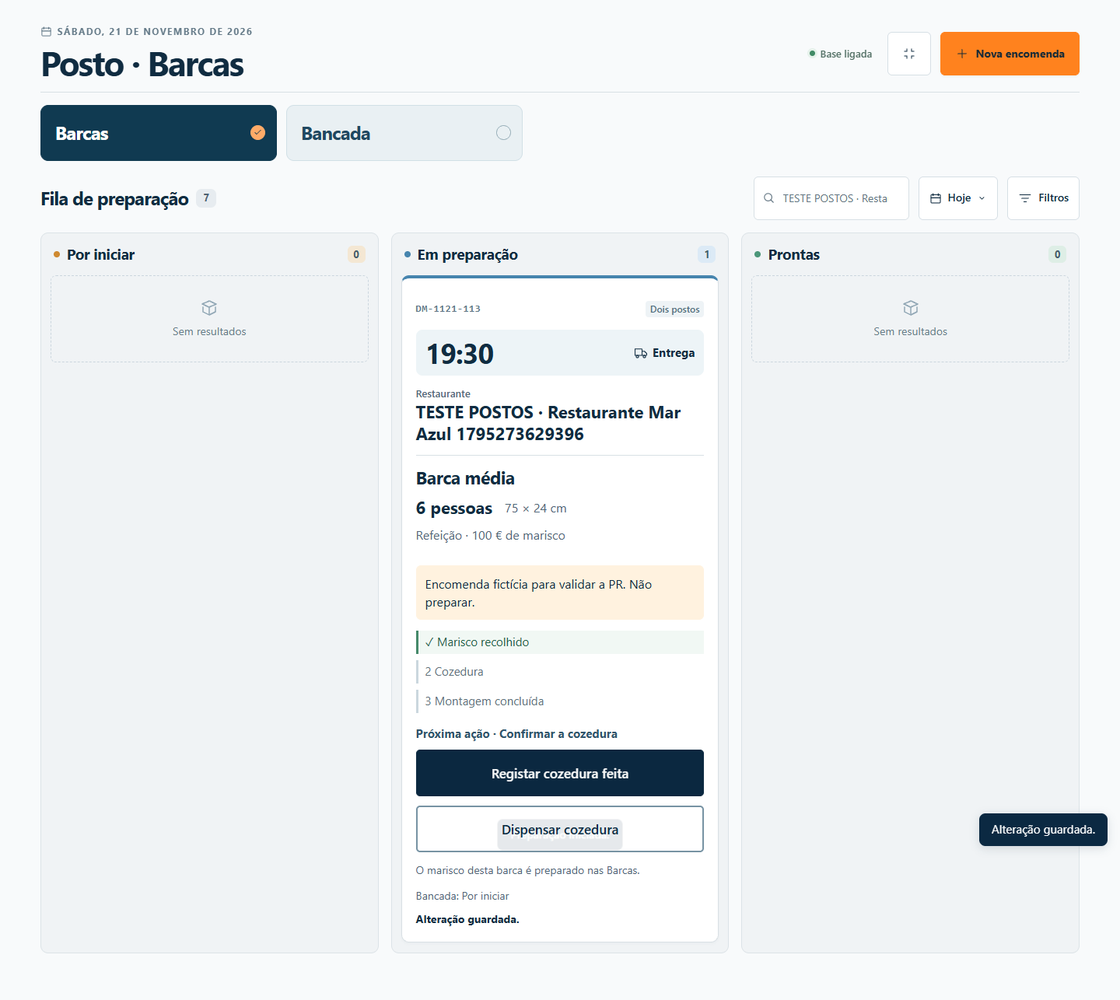
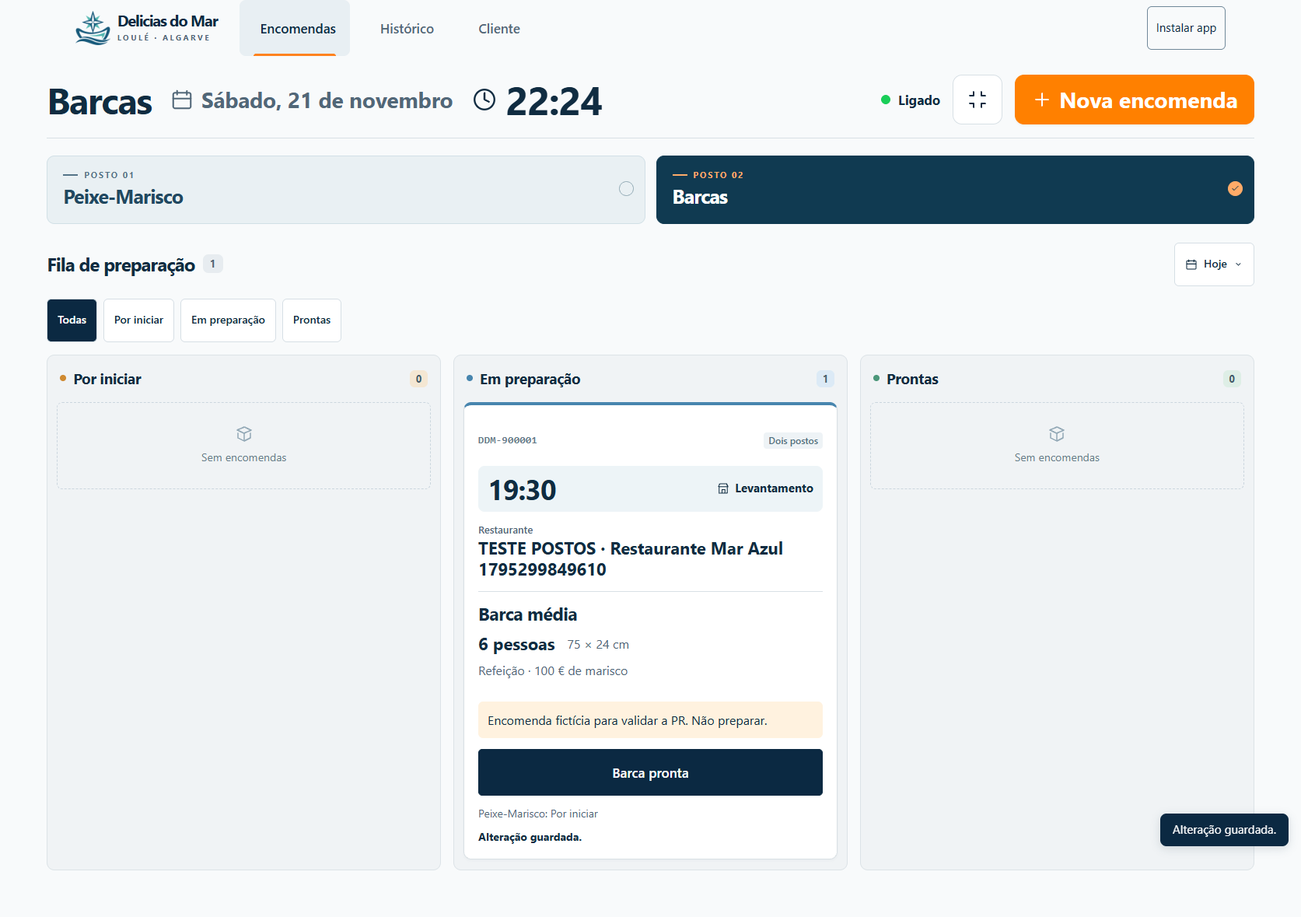
Simplifica a preparação nos dois postos e os filtros das filas

diff --git a/src/app.js b/src/app.js
@@ -57,8 +57,8 @@ const esc=v=>String(v??"").replace(/[&<>"']/g,c=>({"&":"&amp;","<":"&lt;",">":"&
 const cls=["wait","work","ready"];
 const categoryIcons=["boat","fish","waves","pot","snow"];
 const dayNow=()=>lisbonDay();
-let page="preparacao",station="bancada",day=dayNow(),orders=[],loaded=false,synced=false,loading=false,serial=0;
-let syncError=false;let query="",filter="all",listState="all",menu="",focusMode=false,detailId=null,busy=false,dialogMode="",draft=null,entry=null,editIndex=-1;
+let page="encomendas",station="bancada",day=dayNow(),orders=[],loaded=false,synced=false,loading=false,serial=0;
+let syncError=false;let filter="all",listState="all",focusMode=false,detailId=null,busy=false,dialogMode="",draft=null,entry=null,editIndex=-1;
 let savingId=null,saveMessage="";
 try{focusMode=localStorage.getItem("ddm-modo-posto")==="true";}catch{}
 const dialog=$("#dialog"),panel=$("#dialogContent"),main=$("#main");
@@ -72,7 +72,6 @@ const base="https://c--1d4e2f3e-c086-4293-8fd9-9ee55c295b01-prod.lovable.cloud",
 const refs=new Map(), rawOrders=new Map();
 const catKeys=["barcas","peixe_fresco","marisco_fresco","marisco_cozido","congelados"];
 const statusKeys=["por_iniciar","em_preparacao","pronta"];
-const cookKeys={pending:"por_cozer",done:"cozido_no_posto",skip:"dispensado"};
 const unitKeys={"un.":"un","dz.":"dz","kg":"kg"};
 async function rest(path,payload){
  let r,text;try{r=await fetch(base+"/rest/v1/"+path,{signal:AbortSignal.timeout(8000),method:payload?"POST":"GET",headers:{apikey:publicKey,"Content-Type":"application/json"},body:payload?JSON.stringify(payload):undefined,cache:"no-store"});text=await r.text();}catch{throw Error("Sem ligação à demo. Verifica a ligação à internet e tenta novamente.");}
@@ -83,12 +82,12 @@ async function rest(path,payload){
 }
 function convertRow(o){
  const id=Number(o.ref.split("-").at(-1));refs.set(id,o.ref);rawOrders.set(id,o);
- const tasks=Object.fromEntries(o.station_tasks.map(t=>[t.station,statusKeys.indexOf(t.status)])),boat=o.station_tasks.find(t=>t.station==="barcas");
+ const tasks=Object.fromEntries(o.station_tasks.map(t=>[t.station,statusKeys.indexOf(t.status)]));
  const items=o.order_items.sort((a,b)=>a.position-b.position).map((i,k)=>{
  let p=catalog.find(p=>p.name===i.product&&catKeys[p.cat]===i.category);
  if(!p){p={id:"custom-"+i.category+"-"+i.product,cat:catKeys.indexOf(i.category),name:i.product,unit:{"kg":"kg","un":"un.","dz":"dz."}[i.unit]||"un."};catalog.push(p);}
  return {product:p.id,line:k+1,qty:Number(i.quantity||1),unit:({kg:"kg",un:"un.",dz:"dz."})[i.unit]||i.unit,note:i.notes||"",people:i.people,size:p.size||i.barca_size||"",use:i.meal_type==="petisco"?"Petisco":"Refeição",budget:i.budget,cut:i.cut?i.cut[0].toUpperCase()+i.cut.slice(1):"",done:tasks[catKeys[p.cat]==="barcas"?"barcas":"bancada"]===2};});
- return {id,version:o.station_tasks.reduce((s,t)=>s+t.version,0),name:o.customer_name,type:o.customer_type,day:o.business_date,time:o.scheduled_time.slice(0,5),delivery:o.fulfilment==="entrega"?"Entrega":"Levantamento",address:o.address,priority:o.priority!=="normal",note:o.notes,channel:o.source==="cliente"?"Cliente":"Equipa",handed:o.status==="entregue",items,tasks,boatSteps:boat?{gathered:boat.shellfish_collected,cooked:Object.keys(cookKeys).find(k=>cookKeys[k]===boat.cooking),assembled:boat.assembly_done}:null};
+ return {id,version:o.station_tasks.reduce((s,t)=>s+t.version,0),name:o.customer_name,type:o.customer_type,day:o.business_date,time:o.scheduled_time.slice(0,5),delivery:o.fulfilment==="entrega"?"Entrega":"Levantamento",address:o.address,priority:o.priority!=="normal",note:o.notes,channel:o.source==="cliente"?"Cliente":"Equipa",handed:o.status==="entregue",items,tasks};
 }
 async function readOne(uuid){const rows=await rest("orders?select=*,station_tasks(*),order_items(*)&id=eq."+encodeURIComponent(uuid));return convertRow(rows[0]);}
 async function onlineRequest(url,data){
@@ -108,11 +107,7 @@ async function onlineRequest(url,data){
  if(!t)throw Error("Posto indisponível.");
  if(data.action==="advance"||data.action==="back"){
  const n=statusKeys.indexOf(t.status)+(data.action==="advance"?1:-1);if(n<0||n>2)throw Error("Atualiza o posto.");
- patch.status=statusKeys[n];if(t.station==="barcas"&&n===0){Object.assign(patch,{cooking:"por_cozer",shellfish_collected:false,assembly_done:false});}
- }else if(data.action==="boat"){
- if(data.step==="gathered")patch.shellfish_collected=data.value;
- if(data.step==="cooked")patch.cooking=cookKeys[data.value];
- if(data.step==="assembled")patch.assembly_done=data.value;
+ patch.status=statusKeys[n];
  }else throw Error("Ação indisponível.");
  await rest("rpc/update_task",{p_task_id:t.id,p_expected_version:t.version,p_patch:patch});
  }
@@ -124,15 +119,23 @@ async function request(url,data){
  return onlineRequest(url,data);
 }
 function route(){
- const [raw,param]=location.hash.slice(1).split("/");page=["cliente","encomendas"].includes(raw)?raw:"preparacao";
- if(["barcas","bancada"].includes(param)){station=param;try{localStorage.setItem("ddm-posto",station)}catch{}}else if(!raw||raw==="preparacao"){try{station=localStorage.getItem("ddm-posto")==="barcas"?"barcas":"bancada"}catch{}}
- if(page==="preparacao"){try{focusMode=localStorage.getItem("ddm-modo-posto")==="true";}catch{}}
- query="";filter="all";menu="";if(page!=="preparacao")focusMode=false;
+ const [raw,param]=location.hash.slice(1).split("/");page=["cliente","historico"].includes(raw)?raw:"encomendas";
+ if(page==="encomendas"){
+  if(Object.hasOwn(stations,param)){
+   station=param;
+   try{localStorage.setItem("ddm-posto",station);}catch{}
+  }else{
+   try{station=localStorage.getItem("ddm-posto")==="barcas"?"barcas":"bancada";}catch{}
+  }
+  try{focusMode=localStorage.getItem("ddm-modo-posto")==="true";}catch{}
+  if(raw==="preparacao")history.replaceState(null,"","#encomendas/"+station);
+ }else{focusMode=false;}
+ filter="all";
  document.body.classList.toggle("focus",focusMode);if(dialog.open)dialog.close();render();sync();
 }
 function selectStation(s){
  if(!Object.hasOwn(stations,s))return;station=s;try{localStorage.setItem("ddm-posto",s)}catch{}
- history.replaceState(null,"","#preparacao/"+s);query="";filter="all";menu="";render();
+ history.replaceState(null,"","#encomendas/"+s);filter="all";render();
 }
 
 let lastSync=0,fetchDay=null,networkProblem=false;
@@ -144,7 +147,7 @@ async function sync(){
  const data=await request("/api/orders?day="+encodeURIComponent(selected));if(current!==serial||day!==selected)return;
  const changed=JSON.stringify(orders)!==JSON.stringify(data.orders)||!synced;
  orders=data.orders;loaded=true;synced=true;networkProblem=false;lastSync=Date.now();
- if(changed){if(!menu&&!$("#search")?.matches(":focus")&&!$("#orderDay")?.matches(":focus"))render();else rerenderResults();if(dialog.open&&dialogMode==="detail"&&!busy)drawDetail();}
+ if(changed){if(!$("#orderDay")?.matches(":focus"))render();else rerenderResults();if(dialog.open&&dialogMode==="detail"&&!busy)drawDetail();}
  }catch{if(current!==serial||day!==selected)return;synced=false;networkProblem=true;if(!loaded)render();}
  finally{if(fetchDay===selected)fetchDay=null;renderSync();}
 }
@@ -152,14 +155,14 @@ function renderSync(){
  document.querySelectorAll(".sync").forEach(el=>{el.classList.toggle("off",!synced);el.innerHTML=`<span></span>${synced?"Ligado":networkProblem?"Sem ligação":"A ligar"}`;el.title=lastSync?"Última leitura às "+new Date(lastSync).toLocaleTimeString("pt-PT",{timeZone:"Europe/Lisbon"}):"Ligação à base de dados da equipa";});
  const b=document.getElementById("networkStatus");
  b.hidden=!networkProblem;b.querySelector("span").textContent=lastSync?"Sem ligação. A última leitura foi às "+new Date(lastSync).toLocaleTimeString("pt-PT")+". Volta a ligar para guardar alterações.":"Não foi possível carregar as encomendas da equipa. Verifica a ligação e tenta novamente.";
- document.querySelectorAll("[data-advance],[data-boat-step],[data-task],[data-handoff]").forEach(el=>{el.disabled=busy||!synced;});
+ document.querySelectorAll("[data-advance],[data-task],[data-handoff]").forEach(el=>{el.disabled=busy||!synced;});
  document.querySelectorAll("[data-saving]").forEach(el=>{el.textContent=Number(el.dataset.saving)===savingId?saveMessage:"";});
  const status=$("#writeStatus");status.textContent=saveMessage;
 }
 const button=(name,text,act,extra="")=>`<button type="button" class="btn ${extra}" data-act="${act}">${name?icon(name):""}${text}</button>`;
 function header(){
- const client=page==="cliente",list=page==="encomendas";
- const title=client?"Cliente":list?"Encomendas":stations[station];
+ const client=page==="cliente",list=page==="historico";
+ const title=client?"Cliente":list?"Histórico":stations[station];
  return `<div class="pagehead station-header"><h1>${title}</h1><div class="header-date">${icon("calendar",30)}<span data-today></span></div><div class="header-clock" aria-label="Hora atual em Lisboa">${icon("clock",34)}<time data-clock></time></div><div class="head-actions"><span class="sync" role="status"></span>${!client&&!list?`<button class="btn square" title="${focusMode?"Sair do modo posto":"Modo posto em ecrã inteiro"}" aria-label="${focusMode?"Sair do modo posto":"Modo posto em ecrã inteiro"}" data-act="focus">${icon(focusMode?"shrink":"expand",30)}</button>`:""}${client?"":button("plus","Nova encomenda","new","primary")}</div></div>`;
 }
 function updateClock(){
@@ -174,11 +177,15 @@ function statusPill(n){return `<span class="status-pill ${cls[n]}"><b></b>${["Po
 const modeIcon=o=>o.delivery==="Entrega"?"truck":"shop";
 function datePicker(){const text=day===dayNow()?"Hoje":day===shiftDay(dayNow(),1)?"Amanhã":dateText(day,{day:"2-digit",month:"short"});return `<label class="date-pick" title="Escolher dia">${icon("calendar",16)}${esc(text)}${icon("chev",13)}<input type="date" id="orderDay" aria-label="Dia das encomendas" value="${esc(day)}"></label>`;}
 function toolbar(total){
- return `<div class="queuehead"><div class="queue-title"><h2>${page==="preparacao"?"Fila de preparação":"Lista de encomendas"}</h2><span class="total">${total}</span>${focusMode?`<small>${esc(stations[station])}</small>`:""}</div><div class="tools"><label class="searchbox">${icon("search",17)}<input id="search" type="search" placeholder="Pesquisar encomenda" aria-label="Pesquisar por nome, número ou artigo" value="${esc(query)}"></label>${datePicker()}<div class="filterwrap">${button("filter",filter==="all"?"Filtros":"Filtro ativo","filter",filter==="all"?"":"tinted")}${menu==="filter"?`<div class="popover" role="group" aria-label="Filtros">${[["all","Todas as encomendas"],["urgente","Prioritárias"],["Entrega","Entregas"],["Levantamento","Levantamentos"],["restaurante","Restaurantes"],["mista","Dos dois postos"]].map(([v,t])=>`<button data-filter="${v}" aria-pressed="${filter===v}">${t}${filter===v?icon("check",15):""}</button>`).join("")}</div>`:""}</div></div></div>`;
+ const queue=page==="encomendas";
+ const filters=["Todas",...states].map((label,index)=>{
+  const value=index===0?"all":statusKeys[index-1];
+  return `<button class="btn" data-filter="${value}" aria-pressed="${filter===value}">${label}</button>`;
+ }).join("");
+ return `<div class="queuehead"><div class="queue-title"><h2>${queue?"Fila de preparação":"Histórico"}</h2><span class="total">${total}</span></div><div class="tools">${datePicker()}</div></div>${queue?`<div class="queue-filters" role="group" aria-label="Estado da preparação">${filters}</div>`:""}`;
 }
-const normal=t=>String(t).normalize("NFD").replace(/[\u0300-\u036f]/g,"").toLowerCase();
-function match(o){const f=filter==="all"||filter==="urgente"&&o.priority||filter===o.delivery||filter===o.type||filter==="mista"&&Object.keys(o.tasks).length===2;
- return f&&normal([code(o.id),o.name,...o.items.map(label)].join(" ")).includes(normal(query.trim()));}
+const advanceLabel=(s,n)=>n===0?"Iniciar":s==="barcas"?"Barca pronta":"Preparação pronta";
+const handoffLabel=o=>o.delivery==="Entrega"?"Confirmar entrega":"Confirmar levantamento";
 function orderCard(o,n){
  const lines=o.items.filter(i=>group(i)===station);
  const other=station==="barcas"?"bancada":"barcas";
@@ -187,45 +194,46 @@ function orderCard(o,n){
  <button class="ticket-customer" data-detail="${o.id}"><small>${typeName(o)}</small><strong>${esc(o.name)}</strong></button>
  <div class="ticket-products">${lines.map(i=>station==="barcas"?`<div class="ticket-product"><h4>${esc(label(i))}${i.qty>1?` × ${fmtQty(i.qty)}`:""}</h4><div class="boat-spec"><strong>${esc(i.people)} pessoas</strong><span>${esc(i.size||product(i.product)?.size||"")}</span></div><p>${esc(i.use)} · ${fmtQty(i.budget)} € de marisco</p>${i.note?`<p class="product-note">${esc(i.note)}</p>`:""}</div>`:`<div class="ticket-product"><div class="product-heading"><h4>${esc(label(i))}</h4><strong class="product-quantity">${fmtQty(i.qty)} <span>${esc(unit(i))}</span></strong></div><p class="product-cut">Corte: <strong>${esc(i.cut||"Não indicado")}</strong></p>${i.note?`<p class="product-note">${esc(i.note)}</p>`:""}</div>`).join("")}</div>
  ${o.note?`<p class="ticket-note">${esc(o.note)}</p>`:""}
- ${station==="barcas"?boatControls(o):n<2?`<p class="next-action">Próxima ação · ${n?"Preparar todos os produtos acima":"Iniciar a preparação"}</p><button class="ticket-action primary" data-advance="${o.id}">${n?"Concluir preparação":"Iniciar preparação"}</button>`:""}
- ${n===2?`<p class="completion">${icon("check",18)} ${station==="barcas"?"Barcas concluídas":"Preparação concluída"}</p>${globalState(o)===2?`<button class="ticket-action primary" data-handoff="${o.id}">Registar entrega</button>`:`<p class="awaiting">A aguardar ${other==="barcas"?"as Barcas":"Peixe-Marisco"}</p>`}`:""}
+ ${n<2?`<button class="ticket-action primary" data-advance="${o.id}">${advanceLabel(station,n)}</button>`:""}
+ ${n===2?`<p class="completion">${icon("check",18)} ${station==="barcas"?"Barcas concluídas":"Preparação concluída"}</p>${globalState(o)===2?`<button class="ticket-action primary" data-handoff="${o.id}">${handoffLabel(o)}</button>`:`<p class="awaiting">A aguardar ${other==="barcas"?"as Barcas":"Peixe-Marisco"}</p>`}`:""}
  ${o.tasks[other]!==undefined&&n!==2?`<p class="other-station">${stations[other]}: ${states[o.tasks[other]]}</p>`:""}
  <p class="card-save" data-saving="${o.id}"></p></article>`;
 }
-function boatControls(o){
- const n=o.tasks.barcas,s=o.boatSteps||{},cooked=["done","skip"].includes(s.cooked);
- const steps=`<ol class="boat-progress"><li class="${s.gathered?"complete":""}">${s.gathered?"✓":"1"} Marisco recolhido</li><li class="${cooked?"complete":""}">${cooked?"✓":"2"} ${s.cooked==="skip"?"Cozedura dispensada":s.cooked==="done"?"Cozedura feita":"Cozedura"}</li><li class="${s.assembled?"complete":""}">${s.assembled?"✓":"3"} Montagem concluída</li></ol>`;
- if(n===2||o.handed)return steps;
- const action=(step,value,text)=>`<button class="ticket-action primary" data-boat-step="${step}" data-value="${value}" data-order-id="${o.id}">${text}</button>`;
- const next=n===0?"Iniciar a barca":!s.gathered?"Recolher o marisco":!cooked?"Confirmar a cozedura":!s.assembled?"Montar a barca":"Concluir a barca";
- const controls=n===0?`<button class="ticket-action primary" data-advance="${o.id}" data-s="barcas">Iniciar barca</button>`:!s.gathered?action("gathered","true","Registar marisco recolhido"):!cooked?`<div class="cooking-actions">${action("cooked","done","Registar cozedura feita")}${action("cooked","skip","Dispensar cozedura")}</div>`:!s.assembled?action("assembled","true","Registar montagem concluída"):`<button class="ticket-action primary" data-advance="${o.id}" data-s="barcas">Concluir barca</button>`;
- return `${steps}<p class="next-action">Próxima ação · ${next}</p>${controls}<p class="station-responsibility">O marisco desta barca é preparado nas Barcas.</p>`;
-}
 function empty(text){return `<div class="empty">${icon("bando",24)}<span>${text}</span></div>`;}
 function boardContent(){
- const relevant=orders.filter(o=>!o.handed&&o.tasks[station]!==undefined),shown=relevant.filter(match).sort(byTime);
- return `<div class="board">${states.map((title,n)=>{const row=shown.filter(o=>o.tasks[station]===n);return `<section class="lane ${cls[n]}"><div class="lane-head"><div><span class="state-dot"></span><h3>${title}</h3></div><span class="lane-count">${row.length}</span></div><div class="lane-body">${row.map(o=>orderCard(o,n)).join("")||empty(!loaded?synced?"A carregar…":(networkProblem?"Sem ligação. Abre o ficheiro num navegador com internet.":"A ligar ao posto…"):query||filter!=="all"?"Sem resultados":"Sem encomendas")}</div></section>`;}).join("")}</div>`;
+ const shown=orders.filter(o=>!o.handed && o.tasks[station]!==undefined).sort(byTime);
+ const lanes=states.map((title,n)=>{
+  const excluded=filter!=="all" && filter!==statusKeys[n];
+  const row=excluded?[]:shown.filter(o=>o.tasks[station]===n);
+  let message="Sem encomendas";
+  if(!loaded)message=networkProblem?"Sem ligação. Verifica a ligação à internet.":"A ligar ao posto…";
+  if(excluded)message="Fora do filtro";
+  return `<section class="lane ${cls[n]}${excluded?" filtered-out":""}">
+   <div class="lane-head"><div><span class="state-dot"></span><h3>${title}</h3></div><span class="lane-count">${row.length}</span></div>
+   <div class="lane-body">${row.map(o=>orderCard(o,n)).join("")||empty(message)}</div>
+  </section>`;
+ });
+ return `<div class="board">${lanes.join("")}</div>`;
 }
 function listContent(){
- const items=orders.filter(match).filter(o=>listState==="all"||listState==="entregues"&&o.handed||listState==="ativas"&&!o.handed).sort(byTime);
+ const items=orders.filter(o=>listState==="all"||listState==="entregues"&&o.handed||listState==="ativas"&&!o.handed).sort(byTime);
  return `<div class="list-tabs">${[["all","Todas"],["ativas","Em aberto"],["entregues","Entregues"]].map(([key,t])=>`<button data-list="${key}" class="${key===listState?"active":""}">${t}</button>`).join("")}</div><div class="order-table"><div class="table-row table-head"><span>Encomenda</span><span>Cliente</span><span>Hora prevista</span><span>Postos</span><span>Estado</span></div>${items.map(o=>`<button data-detail="${o.id}" class="table-row"><strong>${code(o.id)}</strong><span>${esc(o.name)}<small>${typeName(o)}</small></span><span>${esc(o.time)}<small>${esc(o.delivery)}</small></span><span>${Object.keys(o.tasks).map(k=>stations[k]).join(" + ")}</span><span>${o.handed?`<span class="delivered">${icon("check",14)} Entregue</span>`:statusPill(globalState(o))}</span></button>`).join("")||empty("Sem encomendas para estes critérios.")}</div>`;
 }
 function clientContent(){return `<div class="client-intro"><div><span class="station-num">ENCOMENDAS</span><h2>O que vai levar?</h2><p>Escolha os artigos, a preparação e a hora pretendida.</p>${button("bag","Começar encomenda","new","primary")}</div><div class="client-art"></div></div><h2 class="catalog-title">Escolher por categoria</h2><div class="cat-grid">${categories.map((c,n)=>`<button type="button" data-startcat="${n}"><span class="cat-symbol">${icon(categoryIcons[n],28)}</span><strong>${c}</strong><span>${catalog.filter(p=>p.cat===n).length} opções ${icon("right",14)}</span></button>`).join("")}</div><p class="helptext">${icon("info",16)} Demonstração. Os pedidos entram apenas nos postos de teste.</p>`;}
 function render(){
- document.title=(page==="preparacao"?"Preparação":page==="cliente"?"Encomendar":"Encomendas")+" · Delicias do Mar";
+ document.title=(page==="encomendas"?"Encomendas":page==="cliente"?"Cliente":"Histórico")+" · Delicias do Mar";
  document.querySelectorAll("[data-nav]").forEach(a=>{a.classList.toggle("active",a.dataset.nav===page);if(a.dataset.nav===page)a.setAttribute("aria-current","page");else a.removeAttribute("aria-current");});
- const total=page==="preparacao"?orders.filter(o=>!o.handed&&o.tasks[station]!==undefined).length:orders.length;
- main.innerHTML=header()+(page==="cliente"?clientContent():(page==="preparacao"?stationCards():"")+toolbar(total)+`<div id="results">${page==="preparacao"?boardContent():listContent()}</div>`)+`<footer><span>Delicias do Mar <b>·</b> Loulé</span><span>${icon("waves",19)} Central de encomendas</span></footer>`;
+ const total=page==="encomendas"?orders.filter(o=>!o.handed&&o.tasks[station]!==undefined).length:orders.length;
+ main.innerHTML=header()+(page==="cliente"?clientContent():(page==="encomendas"?stationCards():"")+toolbar(total)+`<div id="results">${page==="encomendas"?boardContent():listContent()}</div>`)+`<footer><span>Delicias do Mar <b>·</b> Loulé</span><span>${icon("waves",19)} Central de encomendas</span></footer>`;
  updateClock();renderSync();
 }
-function rerenderResults(){const el=$("#results");if(el)el.innerHTML=page==="preparacao"?boardContent():listContent();renderSync();}
+function rerenderResults(){const el=$("#results");if(el)el.innerHTML=page==="encomendas"?boardContent():listContent();renderSync();}
 function setDay(d){if(!d||d===day)return;day=d;orders=[];loaded=false;synced=false;render();sync();}
 function updateOrder(o){if(o.day!==day)return;const i=orders.findIndex(x=>x.id===o.id);if(i<0)orders.push(o);else if(orders[i].version<=o.version)orders[i]=o;}
 async function mutate(o,action,extra={}){
  if(busy||!o||o.handed)return;
  const target=extra.station||station;
  if(action==="handoff"&&globalState(o)!==2)return;
- if(action==="advance"&&target==="barcas"&&o.tasks.barcas===1&&(!o.boatSteps?.gathered||!o.boatSteps?.assembled||!["done","skip"].includes(o.boatSteps?.cooked)))return;
  busy=true;savingId=o.id;saveMessage="A guardar…";++serial;renderSync();
  try{
  const send=version=>request("/api/orders/"+o.id,{version,action,station:target,...extra});
@@ -233,14 +241,14 @@ async function mutate(o,action,extra={}){
  try{result=await send(o.version);}catch(error){
   if(error.status!==409||action==="handoff")throw error;
   const fresh=(await request("/api/orders?day="+encodeURIComponent(o.day))).orders.find(x=>x.id===o.id);
-  const signature=x=>JSON.stringify([x.tasks[target],target==="barcas"?x.boatSteps:null,x.items.filter(i=>group(i)===target)]);
+  const signature=x=>JSON.stringify([x.tasks[target],x.items.filter(i=>group(i)===target)]);
   if(!fresh||fresh.handed||signature(fresh)!==signature(o))throw error;
   result=await send(fresh.version);
  }
  const {order}=result;
  ++serial;updateOrder(order);synced=true;networkProblem=false;lastSync=Date.now();saveMessage="Alteração guardada.";render();if(dialog.open&&dialogMode==="detail")drawDetail();
  if(action==="advance")notice(order.tasks[extra.station||station]===2?"Preparação concluída.":"Preparação iniciada.");
- if(action==="handoff")notice("Entrega registada.");
+ if(action==="handoff")notice(o.delivery==="Entrega"?"Entrega confirmada.":"Levantamento confirmado.");
  }catch(e){saveMessage="Não foi possível confirmar. A atualizar o estado…";notice(e.message||"Não foi possível guardar.");busy=false;await sync();if(dialog.open&&dialogMode==="detail")drawDetail();saveMessage="Confirma o estado antes de tentar novamente.";}
  finally{busy=false;renderSync();}
 }
@@ -248,11 +256,10 @@ function openDialog(mode){dialogMode=mode;dialog.classList.toggle("form-dialog",
 const modalHead=(eyebrow,title)=>`<div class="modal-head"><div><div class="kicker">${eyebrow}</div><h2 id="dialog-title">${title}</h2></div><button class="close" type="button" data-act="close" aria-label="Fechar">${icon("close",20)}</button></div>`;
 function openDetail(id){detailId=Number(id);openDialog("detail");drawDetail();}
 function workControls(o,s){
- const n=o.tasks[s],chek=o.boatSteps||{};
+ const n=o.tasks[s];
  return `<div class="task-head"><h3>${icon(s==="barcas"?"boat":"fish")} ${stations[s]}</h3>${statusPill(n)}</div>
  <div class="task-lines">${o.items.filter(i=>group(i)===s).map(i=>`<div class="task-line">${icon(n===2?"checked":s==="barcas"?"boat":"fish",18)}<div><strong>${esc(label(i))}${i.qty>1&&s==="barcas"?" × "+fmtQty(i.qty):""}</strong><small>${esc(lineDescription(i))}${s==="barcas"&&i.note?" · "+esc(i.note):""}</small></div></div>`).join("")}</div>
- ${s==="barcas"?boatControls(o):""}
- ${o.handed?"":`<div class="task-btns">${n>0?`<button class="btn minor" data-task="back" data-s="${s}">${n===1?"Voltar a por iniciar":"Reabrir preparação"}</button>`:""}${n<2&&s!=="barcas"?`<button class="btn dark" data-task="advance" data-s="${s}">${icon(n?"check":"play",15)}${n?"Concluir preparação":"Iniciar preparação"}</button>`:""}</div>`}`;
+ ${o.handed?"":`<div class="task-btns">${n>0?`<button class="btn minor" data-task="back" data-s="${s}">${n===1?"Voltar a por iniciar":"Reabrir preparação"}</button>`:""}${n<2?`<button class="btn dark" data-task="advance" data-s="${s}">${icon(n?"check":"play",15)}${advanceLabel(s,n)}</button>`:""}</div>`}`;
 }
 function drawDetail(){
  const o=findOrder(detailId);if(!o)return;
@@ -261,14 +268,14 @@ function drawDetail(){
  panel.innerHTML=modalHead(`${code(o.id)} · ${esc(o.channel)}`,esc(o.name))+`<div class="modal-body"><div class="detail-info"><span>${icon("calendar",16)}${dateText(o.day,{day:"numeric",month:"short"})} · ${esc(o.time)}</span><span>${icon(modeIcon(o),16)}${esc(o.delivery)}</span><span>${icon("user",16)}${typeName(o)}</span></div>
  ${o.address?`<p class="detail-contact">${esc(o.address)}</p>`:""}${o.note?`<div class="note">${icon("note",17)}<div><strong>Notas de preparação</strong><p>${esc(o.note)}</p></div></div>`:""}
  ${Object.keys(o.tasks).sort((a,b)=>a===station?-1:b===station?1:0).map(s=>`<section class="task">${workControls(o,s)}</section>`).join("")}
- <div class="global"><div><small>Estado da encomenda completa</small><strong>${state}</strong></div>${globalState(o)===2&&!o.handed?`<button class="btn primary" data-task="handoff">${icon("bag",16)} Registar entrega</button>`:""}</div></div>`;
+ <div class="global"><div><small>Estado da encomenda completa</small><strong>${state}</strong></div>${globalState(o)===2&&!o.handed?`<button class="btn primary" data-task="handoff">${icon("bag",16)} ${handoffLabel(o)}</button>`:""}</div></div>`;
  dialog.scrollTop=pos;
  renderSync();
 }
 
 const mkKey=()=>globalThis.crypto?.randomUUID?.()||"demo-"+Date.now().toString(36)+"-"+Math.random().toString(36).slice(2);
 let draftScope="",draftStep=1,hadFormError="";
-function startOrder(cat=page==="preparacao"&&station==="bancada"?1:0){
+function startOrder(cat=page==="encomendas"&&station==="bancada"?1:0){
  const scope=page==="cliente"?"Cliente":"Equipa";
  if(!draft||draftScope!==scope){
  const t=new Date(Date.now()+3600000),start=day<dayNow()?dayNow():day,startDay=start===dayNow()&&lisbonDay(t)>start?lisbonDay(t):start;
@@ -308,7 +315,7 @@ async function submitOrder(){
  }catch(e){hadFormError=e.message||"Não foi possível registar o pedido.";busy=false;drawForm();dialog.scrollTop=0;}finally{busy=false;}
 }
 document.addEventListener("input",e=>{
- const t=e.target;if(t.id==="search"){query=t.value;rerenderResults();return;}
+ const t=e.target;
  if(t.dataset.field&&draft){const [who,k]=t.dataset.field.split(".");(who==="i"?entry:draft)[k]=t.type==="checkbox"?t.checked:t.value;}
 });
 document.addEventListener("change",e=>{
@@ -325,13 +332,12 @@ document.addEventListener("submit",e=>{
 });
 document.addEventListener("click",async e=>{
  if(e.target===dialog){const rect=dialog.getBoundingClientRect();if(e.clientX<rect.left||e.clientX>rect.right||e.clientY<rect.top||e.clientY>rect.bottom){if(!busy)dialog.close();}return;}
- const b=e.target.closest("button");if(!b){if(menu&&!e.target.closest(".filterwrap")){menu="";render();}return;}
+ const b=e.target.closest("button");if(!b)return;
  if(b.dataset.station){selectStation(b.dataset.station);return;}
- if(b.dataset.filter){filter=b.dataset.filter;menu="";render();return;}
+ if(b.dataset.filter){filter=b.dataset.filter;render();document.querySelector(`[data-filter="${filter}"]`).focus();return;}
  if(b.dataset.list){listState=b.dataset.list;rerenderResults();return;}
  if(b.dataset.detail){openDetail(b.dataset.detail);return;}
  if(b.dataset.advance){await mutate(findOrder(b.dataset.advance),"advance",{station:b.dataset.s||station});return;}
- if(b.dataset.boatStep){await mutate(findOrder(b.dataset.orderId),"boat",{station:"barcas",step:b.dataset.boatStep,value:b.dataset.value==="true"?true:b.dataset.value});return;}
  if(b.dataset.handoff){await mutate(findOrder(b.dataset.handoff),"handoff");return;}
  if(b.dataset.task){await mutate(findOrder(detailId),b.dataset.task,{station:b.dataset.s||station});return;}
  if(b.dataset.startcat!==undefined){startOrder(+b.dataset.startcat);return;}
@@ -340,7 +346,6 @@ document.addEventListener("click",async e=>{
  const act=b.dataset.act;
  if(act==="new")startOrder();
  if(act==="close"&&!busy)dialog.close();
- if(act==="filter"){menu=menu==="filter"?"":"filter";render();}
  if(act==="next"||act==="prev"){if(act==="next"&&!draft.items.length)return;draftStep=act==="next"?2:1;hadFormError="";drawForm();dialog.scrollTop=0;}
  if(act==="canceledit"){editIndex=-1;entry=defaultEntry(entry.product);drawForm();}
  if(act==="focus"){focusMode=!focusMode;try{localStorage.setItem("ddm-modo-posto",String(focusMode))}catch{}document.body.classList.toggle("focus",focusMode);render();try{if(focusMode&&!document.fullscreenElement)await document.documentElement.requestFullscreen();else if(!focusMode&&document.fullscreenElement)await document.exitFullscreen();}catch{}}
@@ -348,7 +353,6 @@ document.addEventListener("click",async e=>{
 dialog.addEventListener("cancel",e=>{if(busy)e.preventDefault();});
 dialog.addEventListener("close",()=>{detailId=null;dialogMode="";});
 // O modo posto mantém-se mesmo quando o navegador sai do ecrã inteiro.
-document.addEventListener("keydown",e=>{if(e.key==="Escape"&&menu){menu="";render();}});
 window.addEventListener("hashchange",route);window.addEventListener("online",sync);
 window.addEventListener("offline",()=>{++serial;synced=false;networkProblem=true;renderSync();});
 document.addEventListener("visibilitychange",()=>{if(!document.hidden)sync();});

diff --git a/src/estilo.css b/src/estilo.css
@@ -72,3 +72,13 @@ main,.focus main{max-width:1800px;padding-top:8px}
 @media(max-width:1250px){.pagehead.station-header,.focus .pagehead.station-header{flex-wrap:wrap;gap:14px 24px}.station-header h1{font-size:34px}.header-date{font-size:20px}.header-clock{font-size:36px}.station-header .head-actions{margin-left:auto}.top-in{gap:16px}.top nav a{padding:12px}.top .brand{font-size:18px}}
 @media(max-width:900px){.top-in{flex-wrap:wrap;padding:10px 20px;gap:8px 16px}.top nav{order:3;flex-basis:100%;justify-content:center}.top nav a{flex:1;justify-content:center}.top nav a .ico{display:inline}.pagehead.station-header{border-radius:0}.header-date{margin-left:0}.header-clock{margin-left:auto}.station-header .head-actions{width:100%;justify-content:flex-end}.station-header .sync{margin-right:auto}}
 @media(max-width:690px){.top-in{display:flex;padding:10px 14px}.top .brand{font-size:17px}.top .brand img{width:32px;height:32px}.top nav{gap:6px}.top nav a{font-size:15px;gap:6px;padding:10px 6px}.top nav a.active:after{left:6px;right:6px}#installApp{font-size:13px;margin-left:auto;padding:6px}.station-header h1{width:100%;font-size:32px}.header-date{font-size:16px;white-space:normal;gap:7px}.header-date .ico{width:23px;height:23px}.header-clock{font-size:30px;gap:6px}.header-clock .ico{width:26px;height:26px}.pagehead.station-header,.focus .pagehead.station-header{padding:12px 0;gap:14px 10px}.station-header .head-actions{flex-wrap:wrap;gap:12px}.station-header .btn.square{min-width:56px;width:56px;height:56px}.station-header .btn.primary{min-height:56px;font-size:17px;padding:12px}.station-header .sync{font-size:15px}.station-copy,.focus .station-copy{padding:12px}.station-copy strong,.focus .station-copy strong{font-size:20px}.station-state,.focus .station-state{right:10px}.station-num{font-size:10px;letter-spacing:1px}.station-state{width:16px;height:16px}}
+
+.queue-filters {display:flex;flex-wrap:wrap;gap:8px;margin:0 0 16px}
+.queue-filters .btn {min-height:56px;justify-content:center}
+.queue-filters [aria-pressed=true] {background:var(--navy);color:white}
+nav [data-nav],.ticket .ref,.ticket-customer,.task-btns .btn,.global .btn,.list-tabs button,#dialog .close {min-height:56px}
+#dialog .close,.ticket .ref {min-width:56px}
+@media(max-width:690px) {
+ .queue-filters {display:grid;grid-template-columns:repeat(2,minmax(0,1fr))}
+ .board .filtered-out {display:none}
+}

diff --git a/src/index.html b/src/index.html
@@ -3,12 +3,12 @@
 <head>
 <meta charset="utf-8"><meta name="viewport" content="width=device-width,initial-scale=1,viewport-fit=cover">
 <meta name="theme-color" content="#0b2942"><meta name="description" content="Encomendas e preparação nos dois postos da Delicias do Mar. Aplicação de demonstração.">
-<title>Preparação · Delicias do Mar</title><link rel="icon" href="./marca.png"><link rel="stylesheet" href="./estilo.css">
+<title>Encomendas · Delicias do Mar</title><link rel="icon" href="./marca.png"><link rel="stylesheet" href="./estilo.css">
 <link rel="manifest" href="./app.webmanifest"><link rel="apple-touch-icon" href="./icon-180.png"><meta name="apple-mobile-web-app-capable" content="yes"></head>
 <body>
 <header class="top"><div class="top-in">
-<a href="#preparacao" class="brand" aria-label="Delicias do Mar, preparação"><img src="./marca.png" alt=""><span>Delicias do Mar<small>LOULÉ · ALGARVE</small></span></a>
-<nav aria-label="Navegação principal"><a data-nav="preparacao" href="#preparacao"><i data-icon="columns"></i>Preparação</a><a data-nav="encomendas" href="#encomendas"><i data-icon="list"></i>Encomendas</a><a data-nav="cliente" href="#cliente"><i data-icon="store"></i>Cliente</a></nav>
+<a href="#encomendas" class="brand" aria-label="Delicias do Mar, encomendas"><img src="./marca.png" alt=""><span>Delicias do Mar<small>LOULÉ · ALGARVE</small></span></a>
+<nav aria-label="Navegação principal"><a data-nav="encomendas" href="#encomendas"><i data-icon="columns"></i>Encomendas</a><a data-nav="historico" href="#historico"><i data-icon="list"></i>Histórico</a><a data-nav="cliente" href="#cliente"><i data-icon="store"></i>Cliente</a></nav>
 <button id="installApp" type="button">Instalar app</button>
 </div></header><div id="networkStatus" role="status" hidden><span></span><button id="retrySync">Tentar novamente</button></div>
 <dialog id="installHelp" aria-labelledby="installTitle"><h2 id="installTitle">Instalar Delicias do Mar</h2><p id="installInstructions"></p><button id="closeInstall" class="btn">Fechar</button></dialog>

diff --git a/README.md b/README.md
@@ -31,11 +31,11 @@ Para gerar a pasta publicável localmente, usa Node.js 22.12 ou superior e execu
 
 Seleciona **Peixe-Marisco** ou **Barcas** e ativa o botão **Modo posto** no cabeçalho. O posto e o modo ficam guardados neste navegador/dispositivo, incluindo ao reabrir a app pelo endereço inicial. Os atalhos específicos da app escolhem e guardam o posto indicado. Sair do ecrã inteiro do navegador mantém o modo posto; o botão da app permite sair desse modo. Num dispositivo novo, abre o Posto 1 · Peixe-Marisco. O identificador interno `bancada` mantém os atalhos e preferências existentes compatíveis.
 
-O topo mostra o posto, data de hoje, relógio de Lisboa, ligação, ecrã inteiro e Nova encomenda. A navegação **Preparação · Encomendas · Cliente** permanece disponível também em modo posto. A data do cabeçalho é a data atual; o seletor **Dia das encomendas** continua a controlar o dia da fila. O selo Modo demo foi retirado, sem alterar a base de dados ou o funcionamento de Nova encomenda.
+**Encomendas** (`#encomendas`) abre o posto guardado. Os atalhos `#encomendas/bancada` e `#encomendas/barcas` escolhem o posto. Os antigos atalhos `#preparacao` continuam a abrir a fila. **Histórico** (`#historico`) mostra a lista do dia e **Cliente** (`#cliente`) abre o catálogo.
 
-Próxima fase acordada: questionário de barca em Cliente e circuito **Aceitar · Contactar · Recusar** apenas para pedidos de clientes/website, antes da preparação. A integração com `ddm-website` e a alteração de Nova encomenda ficam para essa fase. Esta revisão não altera a base de dados.
+Toca em **Iniciar** e depois em **Barca pronta** ou **Preparação pronta**. O marisco da barca pertence ao posto Barcas. O levantamento ou a entrega só pode ser confirmado quando todos os postos da encomenda estiverem prontos. Os filtros mostram as encomendas do estado escolhido. No telemóvel, cada filtro de estado abre apenas a respetiva coluna; **Todas** mostra as três em sequência.
 
-Nas Barcas, os cartões permitem iniciar, registar recolha, confirmar cozedura feita ou dispensada, registar montagem e concluir. O marisco da barca pertence sempre às Barcas. Em Peixe-Marisco, cada produto tem a sua quantidade, unidade e corte; concluir a preparação confirma todos os produtos desse posto. Uma encomenda mista só disponibiliza **Registar entrega** depois de ambos os postos estarem prontos.
+Antes de publicar este fluxo, rever e aprovar [a alteração de update_task](migrations/001_fluxo_postos.sql). A função em produção exige os três passos antigos para concluir a barca. A migração preserva as colunas e os pedidos das versões anteriores da app.
 
 As ações ficam bloqueadas durante a gravação ou sem ligação. A confirmação **Alteração guardada** só aparece após a resposta da base e a leitura do estado guardado. Se houver erro, a app atualiza a encomenda e pede para confirmar o estado antes de repetir.
 
@@ -50,14 +50,8 @@ npm run build
 npm test
 ```
 
-O teste usa duas sessões de navegador com armazenamento independente e uma API simulada partilhada. Cobre a encomenda mista, unidades por artigo, etapas das Barcas (cozedura feita e dispensada), bloqueio da entrega, toques repetidos, erro de gravação, perda/recuperação de ligação, reabertura por dispositivo e alvos táteis de pelo menos 56 px. `DDM_BROWSER=chrome` permite usar o Chrome instalado; `msedge` usa o Edge.
+O teste usa duas sessões de navegador com armazenamento independente e uma API simulada partilhada. Cobre a encomenda mista, unidades por artigo, conclusão independente das Barcas, filtros por estado, bloqueio da entrega, toques repetidos, erro de gravação, perda/recuperação de ligação, reabertura por dispositivo e alvos táteis de pelo menos 56 px. `DDM_BROWSER=chrome` permite usar o Chrome instalado; `msedge` usa o Edge.
 
 Os testes não alteram `docs/`. Para refazer as imagens dos postos, junta `--update-images` (por exemplo `node tests/postos.cjs --update-images`).
 
 `npm run test:live` repete o percurso essencial na base de demonstração: **cria uma encomenda fictícia identificada como TESTE POSTOS**, conclui os dois postos e regista a entrega para a retirar da fila. Não executar contra uma base de produção. As duas sessões só partilham os dados do servidor, nunca o armazenamento local.
-
-Evidência de 21/11/2026: teste real concluído com `DM-1121-113`. A barca terminou com a Bancada ainda por iniciar; a entrega só ficou disponível depois da conclusão da Bancada; as duas sessões reabriram no posto e modo guardados. A encomenda fictícia foi marcada como entregue. As imagens mostram essa mesma encomenda durante a preparação:
-
-| Barcas | Bancada |
-| --- | --- |
-| ![Posto Barcas](docs/postos/barcas.png) | ![Posto Bancada](docs/postos/bancada.png) |
